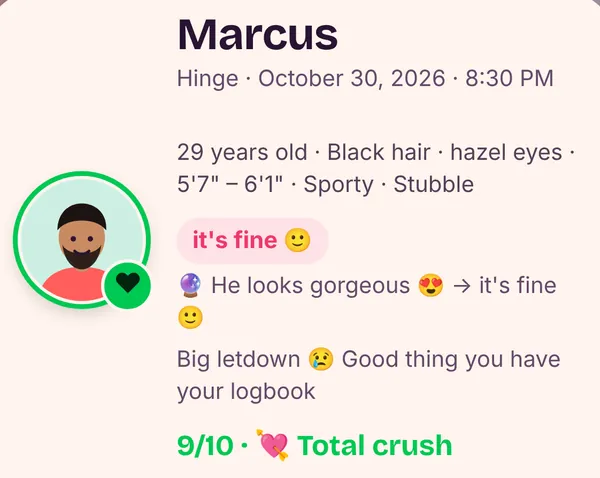
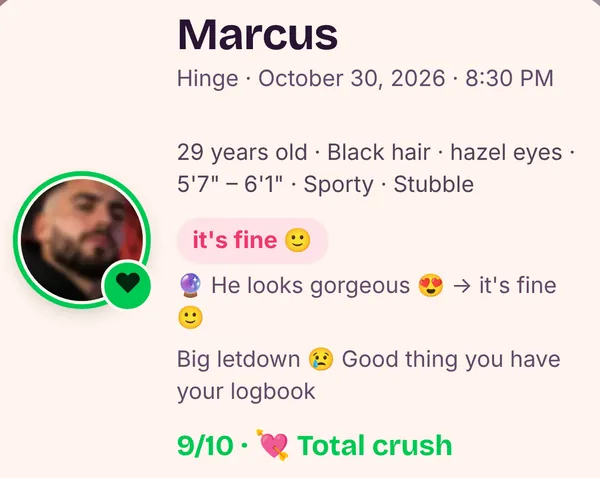
v0.1.15: captures de la version complète refaites avec les photos floutées
Claude-Session: https://claude.ai/code/session_012qHVWDY5aaVnWdgxz4dKkc

Changed region(s): [[0.03, 0.3515, 0.24, 0.6444]]

diff --git a/index.html b/index.html
@@ -436,7 +436,7 @@ What I'd like to post: \u2026`,sub:()=>"Become a "+$e()+" - Keep or Next"}},V='<
 <script>(function(){var n;try{n=localStorage.getItem("kon-lang")}catch{}n!=="fr"&&n!=="en"&&(n=/^fr/i.test(navigator.language||"")?"fr":"en"),(n==="en"?window.KON_EN:window.KON_FR)()})();
 </script>
 
-<script>const BUILD="v72";const VERSION="0.1.14";try{if(navigator.storage&&navigator.storage.persist)navigator.storage.persist()}catch(e){}if("serviceWorker"in navigator&&location.protocol.startsWith("http"))addEventListener("load",function(){navigator.serviceWorker.register("sw.js",{updateViaCache:"none"}).then(function(r){window.__reg=r;r.update()}).catch(function(){})});
+<script>const BUILD="v73";const VERSION="0.1.15";try{if(navigator.storage&&navigator.storage.persist)navigator.storage.persist()}catch(e){}if("serviceWorker"in navigator&&location.protocol.startsWith("http"))addEventListener("load",function(){navigator.serviceWorker.register("sw.js",{updateViaCache:"none"}).then(function(r){window.__reg=r;r.update()}).catch(function(){})});
 function konChk(){try{fetch("./index.html?"+Date.now(),{cache:"no-store"}).then(function(r){return r.text()}).then(function(t){var m=t.match(/const BUILD="(v\d+)"/);if(!m||m[1]===BUILD)return;var last=+sessionStorage.getItem("kon-rl")||0;if(Date.now()-last<60000)return;sessionStorage.setItem("kon-rl",Date.now());var go=function(){location.reload()};if(window.caches)caches.keys().then(function(k){return Promise.all(k.map(function(x){return caches.delete(x)}))}).then(go,go);else go()}).catch(function(){})}catch(e){}}
 if(location.protocol.startsWith("http")){document.addEventListener("visibilitychange",function(){if(!document.hidden){konChk();if(window.__reg)window.__reg.update()}});konChk()}</script>
 <script>(function(){var r=document.getElementById("layer");if(!r)return;var e,o,l,s=0,i=!1,a=!1,c=!1,f=0;function d(){if(e){e.style.transition="transform .2s ease",e.style.transform="";var t=r.querySelector(".scrim");t&&(t.style.opacity="")}}r.addEventListener("touchstart",function(t){if(a=!1,i=!1,e=t.target.closest&&t.target.closest(".sheet"),!(!e||t.touches.length!==1)){var n=e.querySelector(".grab");!n||getComputedStyle(n).display==="none"||t.target.closest("textarea,input,select,.itrack")||(o=t.touches[0].clientY,l=t.touches[0].clientX,s=0,f=Date.now(),c=e.scrollTop<=0||!!t.target.closest(".grab"),a=!0)}},{passive:!0}),r.addEventListener("touchmove",function(t){if(a){var n=t.touches[0].clientY-o,y=t.touches[0].clientX-l;if(!i){if(Math.abs(y)>Math.abs(n)&&Math.abs(y)>8){a=!1;return}if(!(c&&n>8))return;i=!0,e.style.animation="none"}t.cancelable&&t.preventDefault(),s=Math.max(0,n),e.style.transition="none",e.style.transform="translateY("+s+"px)";var h=r.querySelector(".scrim");h&&(h.style.opacity=String(Math.max(0,1-s/450)))}},{passive:!1});function u(){if(!a||!i){a=!1;return}if(a=!1,i=!1,s>110||s>45&&Date.now()-f<250){e.style.transition="transform .2s ease",e.style.transform="translateY(100%)";var t=r.querySelector(".scrim");t&&(t.style.transition="opacity .2s",t.style.opacity="0"),setTimeout(function(){r.innerHTML=""},200)}else d()}r.addEventListener("touchend",u),r.addEventListener("touchcancel",u)})();

diff --git a/sw.js b/sw.js
@@ -1,4 +1,4 @@
-const V="konb-v17";const FILES=["./","./index.html","./manifest.webmanifest","./icon-180.png","./icon-192.png","./icon-512.png"];
+const V="konb-v18";const FILES=["./","./index.html","./manifest.webmanifest","./icon-180.png","./icon-192.png","./icon-512.png"];
 self.addEventListener("install",e=>{e.waitUntil(caches.open(V).then(c=>c.addAll(FILES)).then(()=>self.skipWaiting()))});
 self.addEventListener("activate",e=>{e.waitUntil(caches.keys().then(k=>Promise.all(k.filter(x=>x!==V).map(x=>caches.delete(x)))).then(()=>self.clients.claim()))});
 self.addEventListener("fetch",e=>{if(e.request.method!=="GET")return;e.respondWith(fetch(e.request,{cache:"no-store"}).then(r=>{if(r.ok&&new URL(e.request.url).origin===location.origin){const c=r.clone();caches.open(V).then(x=>x.put(e.request,c))}return r}).catch(()=>caches.match(e.request).then(m=>m||caches.match("./index.html"))))});

diff --git a/README.md b/README.md
@@ -1,4 +1,4 @@
-# Keep or Next · bêta publique 0.1.14
+# Keep or Next · bêta publique 0.1.15
 
 Version publique et limitée de l'application Keep or Next (carnet de rencontres).
 
